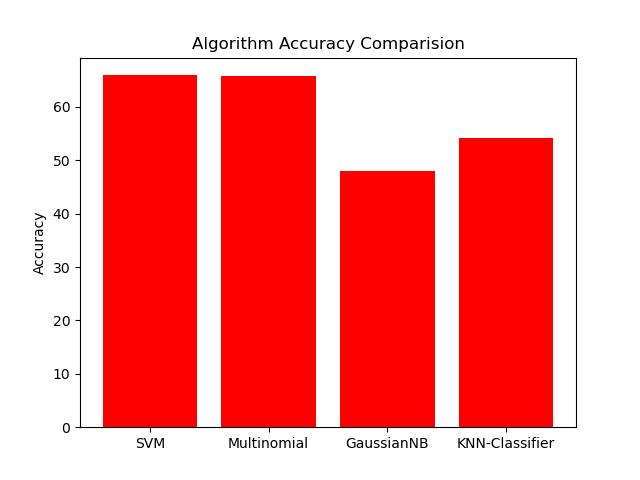
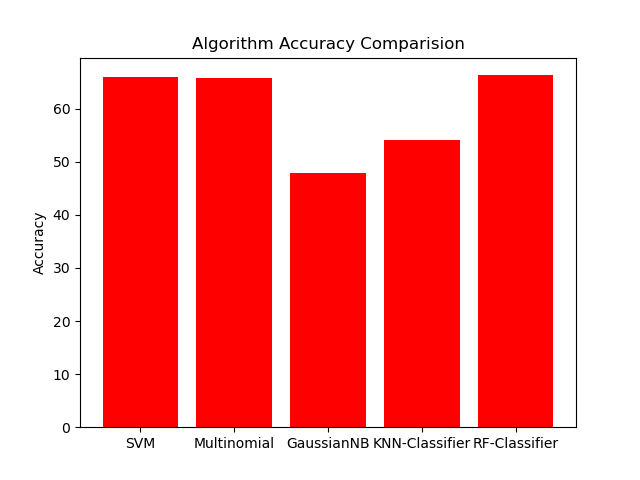
added RandomForest Algorithm and included outputs

diff --git a/sk_learn_algos.py b/sk_learn_algos.py
@@ -4,6 +4,7 @@ from sklearn.feature_extraction.text import CountVectorizer
 from sklearn.svm import LinearSVC
 from sklearn.naive_bayes import MultinomialNB, GaussianNB
 from sklearn.neighbors import KNeighborsClassifier
+from sklearn.ensemble import RandomForestClassifier
 from sklearn.metrics import confusion_matrix
 import time
 import string
@@ -83,7 +84,7 @@ def Display(model, name):
 
 
 def Plot(performance_arg, label):
-    objects = ('SVM', 'Multinomial', 'GaussianNB','KNN-Classifier')
+    objects = ('SVM', 'Multinomial', 'GaussianNB','KNN-Classifier','RF-Classifier')
     y_pos = np.arange(len(objects))
     plt.bar(y_pos, performance_arg, align='center', alpha=1, color='r')
     plt.xticks(y_pos, objects)
@@ -96,6 +97,7 @@ NB = MultinomialNB()
 SVM = LinearSVC()
 GN = GaussianNB()
 KNN = KNeighborsClassifier()
+RandForest= RandomForestClassifier()
 
 Display(SVM, name="SVM")
 
@@ -105,9 +107,11 @@ Display(GN, name="GaussianNB")
 
 Display(KNN, name="KNN-Classifier")
 
+Display(RandForest,name="Random-Forest-Classifier")
+
 print(attributes)
 
-model_names = ['SVM', 'Multinomial', 'GaussianNB','KNN-Classifier']
+model_names = ['SVM', 'Multinomial', 'GaussianNB','KNN-Classifier','Random-Forest-Classifier']
 
 
 for models in model_names:
@@ -129,10 +133,10 @@ Plot(test_time_plot, label="Test-Time")
 
 
 #Line Plot Of All Algorithms Combined
-ranges=[0,50,100,150]
+ranges=[0,50,100,150,200]
 plt.xlabel('Algorithms')
 plt.ylabel('Value')
-plt.xticks(ranges,['SVM','Multinomial','GaussianNB','KNN-Classifier'])
+plt.xticks(ranges,['SVM','Multinomial','GaussianNB','KNN-Classifier','Random-Forest-Classifier'])
 
 plt.scatter(ranges, accuracy_plot, color='g',label="Accuracy")
 plt.scatter(ranges, recall_plot, color='orange',label="Recall")
